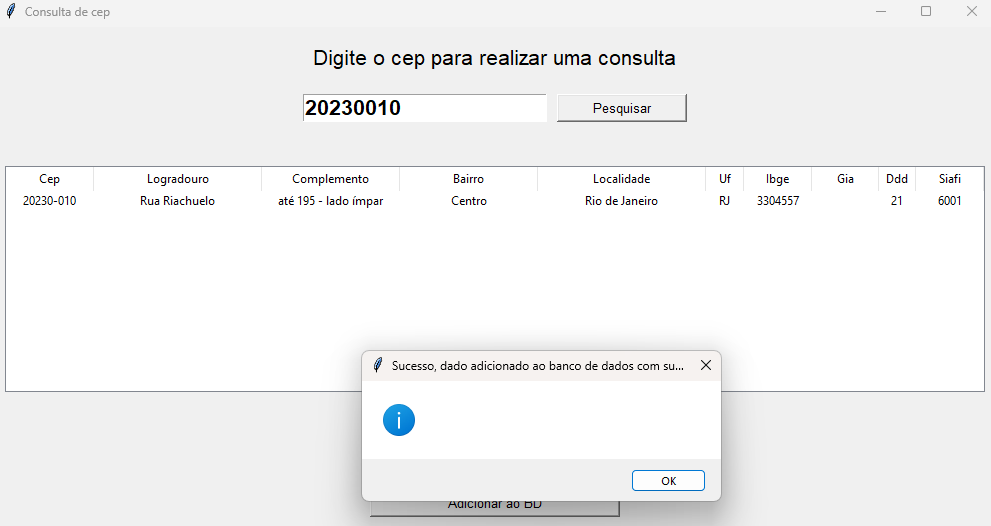
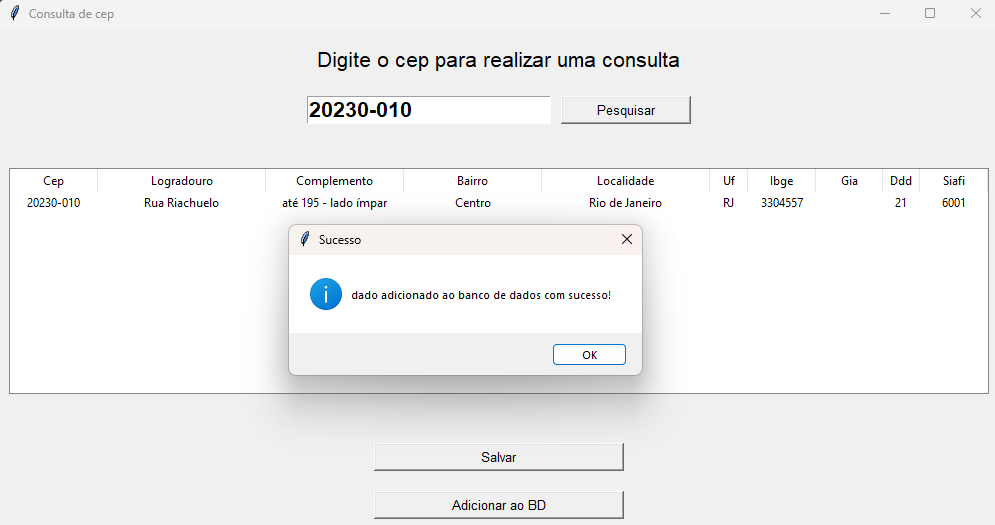
Corrigindo message box e README

diff --git a/API_Cep/Cep.py b/API_Cep/Cep.py
@@ -60,7 +60,7 @@ def get_cep_search():
 
 def save_file():
     if not salvar_resultado:
-        messagebox.showerror("Erro ao salvar, nenhum CEP consultado") 
+        messagebox.showerror("Erro", "Não foi possível salvar, nenhum CEP consultado") 
         return
     
     local_salvar = filedialog.asksaveasfilename(
@@ -73,14 +73,14 @@ def save_file():
         try:
             with open(local_salvar, 'w', encoding='utf-8') as f:
                 json.dump(salvar_resultado , f, indent=4,ensure_ascii=False)
-            messagebox.showinfo("Arquivo salvado com sucesso")
+            messagebox.showinfo("Salvo", "Arquivo salvado com sucesso")
         except Exception as e:
-            messagebox.showerror("Erro ao salvar, não foi possível salvar o arquivo")
+            messagebox.showerror("Error", "Erro ao salvar, não foi possível salvar o arquivo")
 
 def insert_data_bd():
     global salvar_resultado
     if not salvar_resultado:
-        messagebox.showerror("Erro ao adicionar, nenhum CEP consultado") 
+        messagebox.showerror("Error", "Erro ao adicionar, nenhum CEP consultado") 
         return
     
     ordem_campos_sql = [
@@ -102,7 +102,7 @@ def insert_data_bd():
 
     cursor.execute(insert_sql,valores_sql)
     conexao.commit()
-    messagebox.showinfo("Sucesso, dado adicionado ao banco de dados com sucesso!")
+    messagebox.showinfo("Sucesso", "dado adicionado ao banco de dados com sucesso!")
     conexao.close()
 
 
